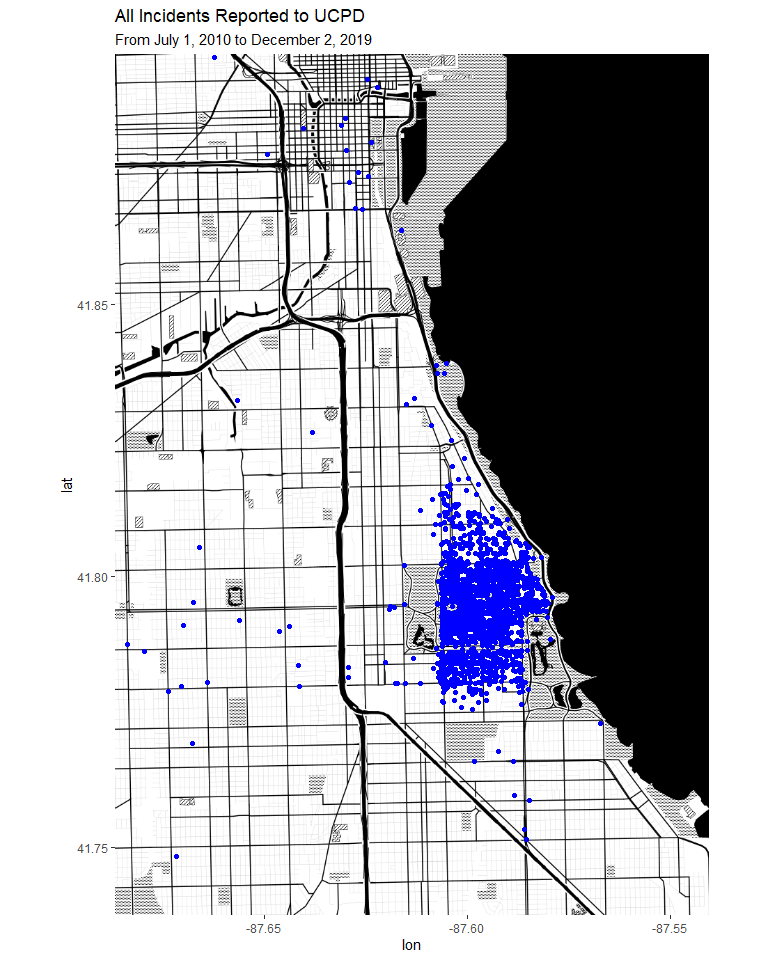
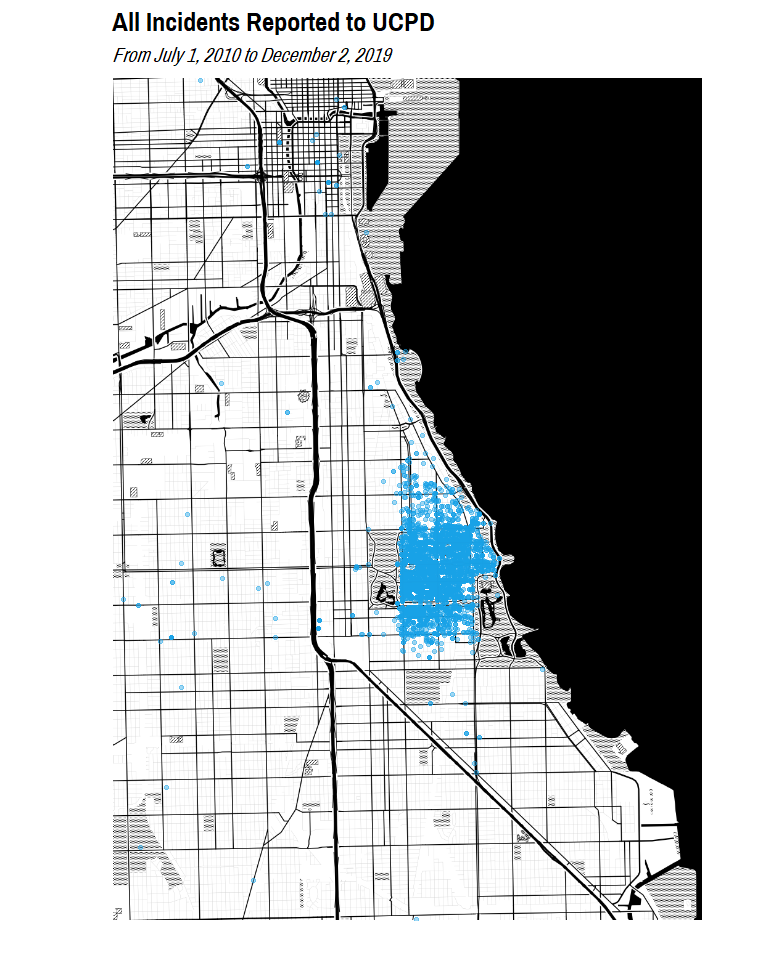
Started CPD crime visualizations, transitioned viz theming to use beachball

Changed region(s): [[0.0938, 0.0, 0.9375, 1.0]]

diff --git a/EDA/eda.md b/EDA/eda.md
@@ -8,7 +8,7 @@ Adam Shelton
 incident_data = readRDS(here("Data", "cleaned_incident_data.rds"))
 ```
 
-### Incidents
+### Incident Reports
 
 #### Descriptive Statistics
 
@@ -65,8 +65,10 @@ incident_desc_stats$POSIXct %>% kable()
 | start          |         57 |      0.9951211 | 1998-04-27 00:00:00 | 2027-02-08 19:35:00 | 2014-10-03 01:05:00 |     11478 |
 | end            |       7157 |      0.3874005 | 2010-06-29 17:00:00 | 2019-12-01 07:45:00 | 2014-01-09 13:30:00 |      4472 |
 
+#### Visualizations
+
 ``` r
-chi_map = ggmap(get_stamenmap(c(left = -87.686839, bottom = 41.737566, right = -87.540434, top = 41.895756), maptype = "toner-background", zoom = 13))
+chi_map = ggmap(get_stamenmap(c(left = -87.686839, bottom = 41.720873, right = -87.522685, top = 41.895756), maptype = "toner-background", zoom = 13))
 ```
 
     ## Source : http://tile.stamen.com/toner-background/13/2100/3044.png
@@ -77,6 +79,8 @@ chi_map = ggmap(get_stamenmap(c(left = -87.686839, bottom = 41.737566, right = -
 
     ## Source : http://tile.stamen.com/toner-background/13/2103/3044.png
 
+    ## Source : http://tile.stamen.com/toner-background/13/2104/3044.png
+
     ## Source : http://tile.stamen.com/toner-background/13/2100/3045.png
 
     ## Source : http://tile.stamen.com/toner-background/13/2101/3045.png
@@ -84,6 +88,8 @@ chi_map = ggmap(get_stamenmap(c(left = -87.686839, bottom = 41.737566, right = -
     ## Source : http://tile.stamen.com/toner-background/13/2102/3045.png
 
     ## Source : http://tile.stamen.com/toner-background/13/2103/3045.png
+
+    ## Source : http://tile.stamen.com/toner-background/13/2104/3045.png
 
     ## Source : http://tile.stamen.com/toner-background/13/2100/3046.png
 
@@ -93,6 +99,8 @@ chi_map = ggmap(get_stamenmap(c(left = -87.686839, bottom = 41.737566, right = -
 
     ## Source : http://tile.stamen.com/toner-background/13/2103/3046.png
 
+    ## Source : http://tile.stamen.com/toner-background/13/2104/3046.png
+
     ## Source : http://tile.stamen.com/toner-background/13/2100/3047.png
 
     ## Source : http://tile.stamen.com/toner-background/13/2101/3047.png
@@ -100,6 +108,8 @@ chi_map = ggmap(get_stamenmap(c(left = -87.686839, bottom = 41.737566, right = -
     ## Source : http://tile.stamen.com/toner-background/13/2102/3047.png
 
     ## Source : http://tile.stamen.com/toner-background/13/2103/3047.png
+
+    ## Source : http://tile.stamen.com/toner-background/13/2104/3047.png
 
     ## Source : http://tile.stamen.com/toner-background/13/2100/3048.png
 
@@ -109,6 +119,8 @@ chi_map = ggmap(get_stamenmap(c(left = -87.686839, bottom = 41.737566, right = -
 
     ## Source : http://tile.stamen.com/toner-background/13/2103/3048.png
 
+    ## Source : http://tile.stamen.com/toner-background/13/2104/3048.png
+
     ## Source : http://tile.stamen.com/toner-background/13/2100/3049.png
 
     ## Source : http://tile.stamen.com/toner-background/13/2101/3049.png
@@ -116,6 +128,8 @@ chi_map = ggmap(get_stamenmap(c(left = -87.686839, bottom = 41.737566, right = -
     ## Source : http://tile.stamen.com/toner-background/13/2102/3049.png
 
     ## Source : http://tile.stamen.com/toner-background/13/2103/3049.png
+
+    ## Source : http://tile.stamen.com/toner-background/13/2104/3049.png
 
 ``` r
 hyde_park_map = ggmap(get_stamenmap(c(left = -87.617020, bottom = 41.773565, right = -87.566863, top = 41.823864), maptype = "toner-background", zoom = 15))
@@ -210,43 +224,81 @@ hyde_park_map = ggmap(get_stamenmap(c(left = -87.617020, bottom = 41.773565, rig
 ``` r
 incident_data_analysis = incident_data  %>% filter(!is.na(incident))  %>% collapse_to_other(9, incident) 
 
-chi_map + geom_point(data = incident_data_analysis, aes(x = lon, y = lat), color = "blue") + labs(title = "All Incidents Reported to UCPD", subtitle = "From July 1, 2010 to December 2, 2019")
+chi_map + geom_point(data = incident_data_analysis, aes(x = lon, y = lat), color = color_pal(3, "cool")[3], alpha = 0.4) + labs(title = "All Incidents Reported to UCPD", subtitle = "From July 1, 2010 to December 2, 2019") + theme_map(base_family = "Pragati Narrow", base_size = 18)
 ```
 
-    ## Warning: Removed 87 rows containing missing values (geom_point).
+    ## Warning: Removed 84 rows containing missing values (geom_point).
 
 ![](eda_files/figure-gfm/inc-viz-1.png)<!-- -->
 
 ``` r
-hyde_park_map + geom_point(data = incident_data_analysis, aes(x = lon, y = lat, color = incident)) + labs(title = "Top 9 Categories of Incidents Reported to UCPD", subtitle = "From July 1, 2010 to December 2, 2019")
+chi_map + stat_density2d(data = incident_data, aes(x = lon, y = lat, fill = stat(level)),  geom="polygon", alpha = 0.75) +  scale_fill_gradientn(colors = color_pal(5, "heatmap")) + labs(title = "All Incidents Reported to UCPD", subtitle = "From July 1, 2010 to December 2, 2019") + theme_map(base_family = "Pragati Narrow", base_size = 18)
 ```
 
-    ## Warning: Removed 287 rows containing missing values (geom_point).
+    ## Warning: Removed 90 rows containing non-finite values (stat_density2d).
 
 ![](eda_files/figure-gfm/inc-viz-2.png)<!-- -->
 
 ``` r
-hyde_park_map + geom_point(data = incident_data_analysis, aes(x = lon, y = lat, color = incident)) + facet_wrap(~ incident) + labs(title = "Top 9 Categories of Incidents Reported to UCPD", subtitle = "From July 1, 2010 to December 2, 2019")
+hyde_park_map + stat_density2d(data = incident_data, aes(x = lon, y = lat, fill = stat(level)),  geom="polygon", alpha = 0.75) +  scale_fill_gradientn(colors = color_pal(5, "heatmap")) + labs(title = "All Incidents Reported to UCPD", subtitle = "From July 1, 2010 to December 2, 2019") + theme_map(base_family = "Pragati Narrow", base_size = 18)
 ```
 
-    ## Warning: Removed 287 rows containing missing values (geom_point).
+    ## Warning: Removed 322 rows containing non-finite values (stat_density2d).
 
 ![](eda_files/figure-gfm/inc-viz-3.png)<!-- -->
 
 ``` r
-hyde_park_map + geom_point(data = incident_data_analysis %>% filter(disposition %in% c("Arrest", "Closed", "CPD Involved", "Open")), aes(x = lon, y = lat, color = disposition)) + labs(title = "Top 4 Categories of Incident Dispositions in UCPD", subtitle = "From July 1, 2010 to December 2, 2019")
+hyde_park_map + geom_point(data = incident_data_analysis, aes(x = lon, y = lat, color = incident)) + scale_color_manual(values = color_pal(9, "discrete")) + labs(title = "Top 9 Categories of Incidents Reported to UCPD", subtitle = "From July 1, 2010 to December 2, 2019") + theme_map(base_family = "Pragati Narrow", base_size = 18) 
 ```
 
-    ## Warning: Removed 272 rows containing missing values (geom_point).
+    ## Warning: Removed 287 rows containing missing values (geom_point).
 
 ![](eda_files/figure-gfm/inc-viz-4.png)<!-- -->
 
 ``` r
-hyde_park_map + geom_point(data = incident_data_analysis %>% filter(disposition %in% c("Arrest", "Closed", "CPD Involved", "Open")), aes(x = lon, y = lat, color = disposition)) + facet_wrap(~ disposition) + labs(title = "Top 4 Categories of Incident Dispositions in UCPD", subtitle = "From July 1, 2010 to December 2, 2019")
+hyde_park_map + geom_point(data = incident_data_analysis, aes(x = lon, y = lat, color = incident)) + scale_color_manual(values = color_pal(9, "discrete")) + facet_wrap(~ incident) + labs(title = "Top 9 Categories of Incidents Reported to UCPD", subtitle = "From July 1, 2010 to December 2, 2019") + theme_map(base_family = "Pragati Narrow", base_size = 18)
+```
+
+    ## Warning: Removed 287 rows containing missing values (geom_point).
+
+![](eda_files/figure-gfm/inc-viz-5.png)<!-- -->
+
+``` r
+hyde_park_map + geom_point(data = incident_data_analysis %>% filter(disposition %in% c("Arrest", "Closed", "CPD Involved", "Open")), aes(x = lon, y = lat, color = disposition)) + scale_color_manual(values = color_pal(4, "discrete")) + labs(title = "Top 4 Categories of Incident Dispositions in UCPD", subtitle = "From July 1, 2010 to December 2, 2019") + theme_map(base_family = "Pragati Narrow", base_size = 18)
 ```
 
     ## Warning: Removed 272 rows containing missing values (geom_point).
 
-![](eda_files/figure-gfm/inc-viz-5.png)<!-- -->
+![](eda_files/figure-gfm/inc-viz-6.png)<!-- -->
+
+``` r
+hyde_park_map + geom_point(data = incident_data_analysis %>% filter(disposition %in% c("Arrest", "Closed", "CPD Involved", "Open")), aes(x = lon, y = lat, color = disposition)) + scale_color_manual(values = color_pal(4, "discrete")) + facet_wrap(~ disposition) + labs(title = "Top 4 Categories of Incident Dispositions in UCPD", subtitle = "From July 1, 2010 to December 2, 2019") + theme_map(base_family = "Pragati Narrow", base_size = 18)
+```
+
+    ## Warning: Removed 272 rows containing missing values (geom_point).
+
+![](eda_files/figure-gfm/inc-viz-7.png)<!-- -->
 
 ## CPD
+
+``` r
+cpd_crime_data = readRDS(here("Data", "cleaned_crime_data.rds"))
+```
+
+### Crime Reports
+
+#### Descriptive Statistics
+
+#### Visualizations
+
+``` r
+chi_map + geom_point(data = cpd_crime_data, aes(x = longitude, y = latitude), color = color_pal(3, "cool")[3], alpha = 0.4) + labs(title = "All Crimes Reported to CPD", subtitle = "From January 1, 2010 to December 2, 2019") + theme_map(base_family = "Pragati Narrow", base_size = 18)
+```
+
+![](eda_files/figure-gfm/crime-viz-1.png)<!-- -->
+
+``` r
+chi_map + stat_density2d(data = cpd_crime_data, aes(x = longitude, y = latitude, fill = stat(level)),  geom="polygon", alpha = 0.75) +  scale_fill_gradientn(colors = color_pal(5, "heatmap")) + labs(title = "All Crimes Reported to CPD", subtitle = "From January 1, 2010 to December 2, 2019") + theme_map(base_family = "Pragati Narrow", base_size = 18)
+```
+
+![](eda_files/figure-gfm/crime-viz-2.png)<!-- -->
